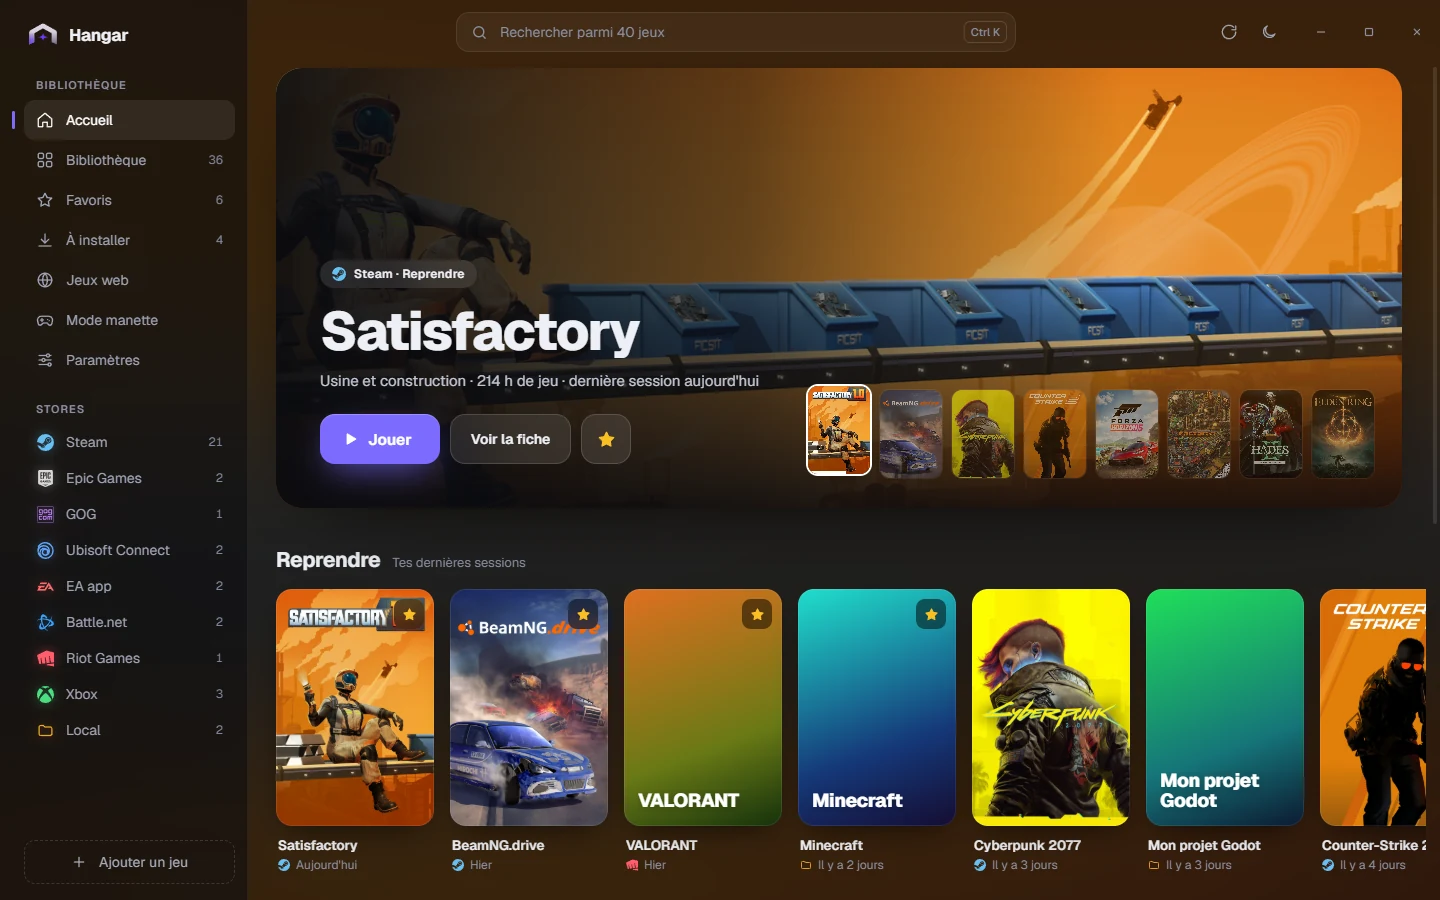
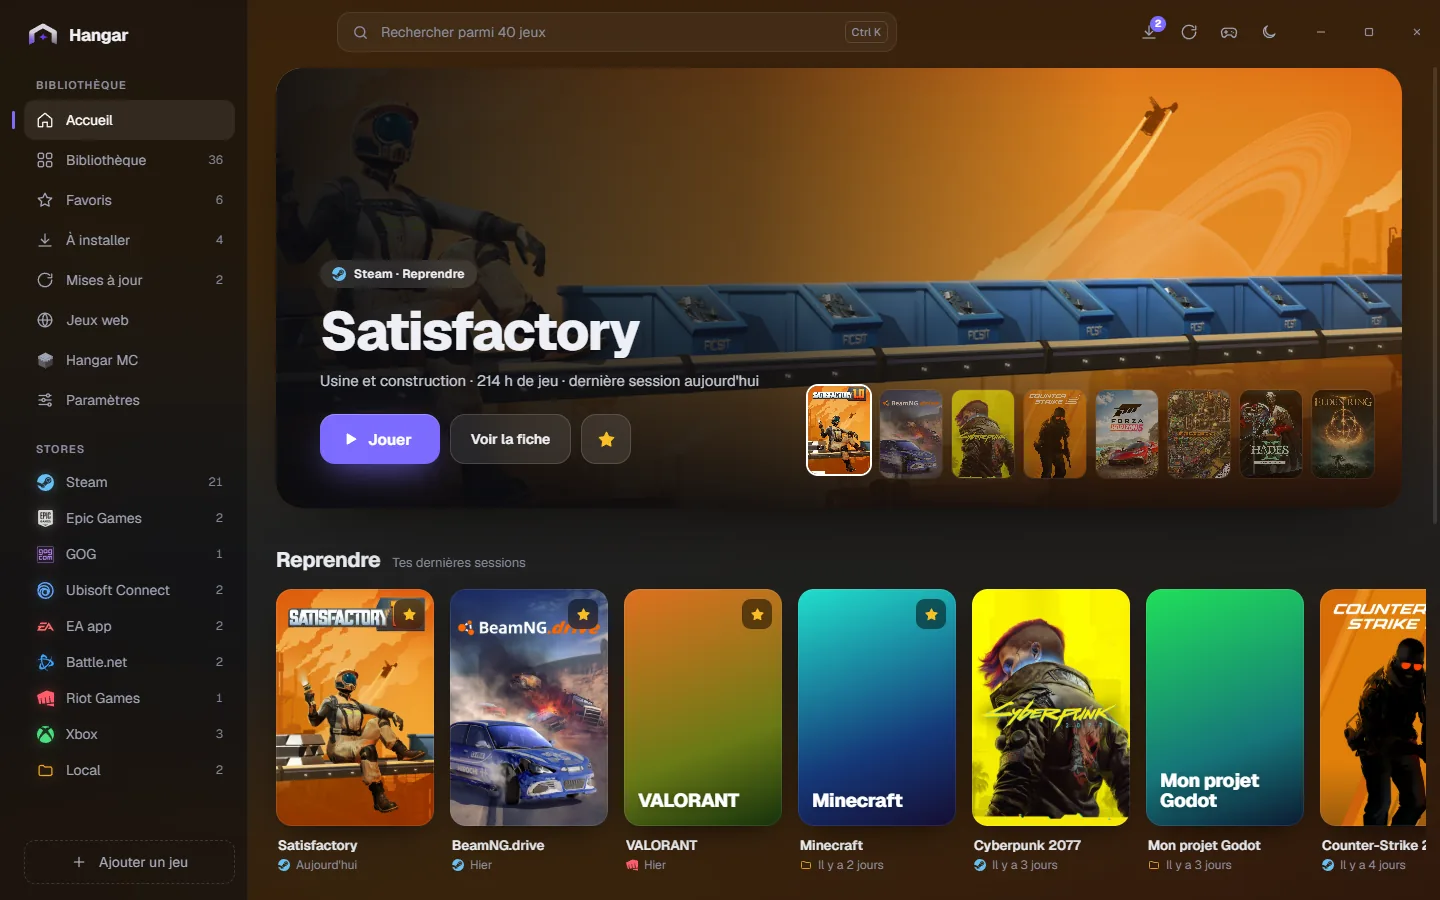
Captures : écrans à jour et Hangar MC sur le site et le README

diff --git a/site/index.html b/site/index.html
@@ -237,12 +237,12 @@
 
   /* Aperçu : contrôle segmenté, l'indicateur glisse sur un ressort, les captures se fondent */
   .seg {
-    position: relative; display: grid; grid-template-columns: repeat(3, 1fr);
-    width: min(420px, 100%); margin: 2.5rem auto 0; padding: 4px; border-radius: 999px;
+    position: relative; display: grid; grid-template-columns: repeat(4, minmax(0, 1fr));
+    width: min(540px, 100%); margin: 2.5rem auto 0; padding: 4px; border-radius: 999px;
     background: var(--surface-2); box-shadow: inset 0 0 0 1px var(--border-1);
   }
   .seg::before {
-    content: ''; position: absolute; top: 4px; bottom: 4px; left: 4px; width: calc((100% - 8px) / 3); border-radius: 999px;
+    content: ''; position: absolute; top: 4px; bottom: 4px; left: 4px; width: calc((100% - 8px) / 4); border-radius: 999px;
     background: var(--surface-3); box-shadow: inset 0 0 0 1px var(--border-2), 0 4px 12px -4px rgba(0,0,0,.6);
     transform: translateX(calc(var(--i, 0) * 100%)); transition: transform .6s var(--spring);
   }
@@ -325,6 +325,7 @@
     .privacy .ico .icon { width: 2rem; height: 2rem; stroke-width: 1.6; }
   }
   @media (max-width: 640px) {
+    .seg button { font-size: .8125rem; white-space: nowrap; }
     .bento, .install { grid-template-columns: minmax(0, 1fr); }
     .install .btn { align-self: stretch; }
     .wide, .md-wide, .privacy { grid-column: auto; }
@@ -543,11 +544,13 @@
           <button type="button" role="tab" id="tab-0" aria-controls="view-0" aria-selected="true">Bibliothèque</button>
           <button type="button" role="tab" id="tab-1" aria-controls="view-1" aria-selected="false" tabindex="-1">Fiche d'un jeu</button>
           <button type="button" role="tab" id="tab-2" aria-controls="view-2" aria-selected="false" tabindex="-1">Jeux web</button>
+          <button type="button" role="tab" id="tab-3" aria-controls="view-3" aria-selected="false" tabindex="-1">Hangar MC</button>
         </div>
         <div class="views">
           <figure class="frame" id="view-0" role="tabpanel" aria-labelledby="tab-0" data-caption="Tous tes jeux au même endroit, filtrés par store en un clic."><img src="images/bibliotheque.webp" width="1440" height="900" loading="lazy" alt="Bibliothèque de Hangar avec les filtres par store"></figure>
           <figure class="frame" id="view-1" role="tabpanel" aria-labelledby="tab-1" aria-hidden="true" data-caption="Sa bannière, ton temps de jeu, ta dernière partie et ton activité."><img src="images/jeu.webp" width="1440" height="900" loading="lazy" alt="Fiche d'un jeu avec sa bannière, son temps de jeu et son activité"></figure>
           <figure class="frame" id="view-2" role="tabpanel" aria-labelledby="tab-2" aria-hidden="true" data-caption="Une quarantaine de jeux navigateur, les récents en tête."><img src="images/jeux-web.webp" width="1440" height="900" loading="lazy" alt="Onglet Jeux web de Hangar"></figure>
+          <figure class="frame" id="view-3" role="tabpanel" aria-labelledby="tab-3" aria-hidden="true" data-caption="Hangar MC, bientôt : Minecraft, toutes versions, avec Fabric et nos modules."><img src="images/hangar-mc.webp" width="1440" height="900" loading="lazy" alt="Écran Hangar MC : versions de Minecraft avec leurs affiches"></figure>
         </div>
         <p class="caption" aria-live="polite">Tous tes jeux au même endroit, filtrés par store en un clic.</p>
       </div>

diff --git a/README.md b/README.md
@@ -38,6 +38,8 @@ Hangar trouve tout seul les jeux de ton ordinateur (Steam, Epic, GOG, Ubisoft Co
 
 ![Jeux web](docs/images/jeux-web.webp)
 
+![Hangar MC (bientôt)](docs/images/hangar-mc.webp)
+
 ## Installer
 
 Va sur la **[page des releases](https://github.com/maelpasq/hangar/releases/latest)** et télécharge le fichier de ton système :
